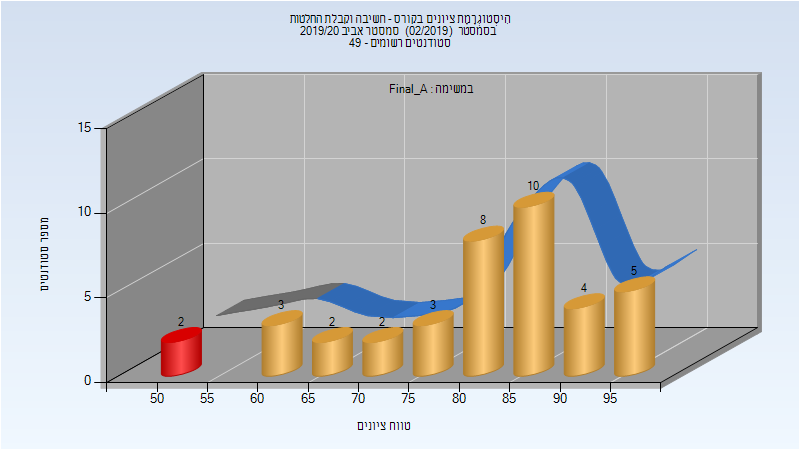
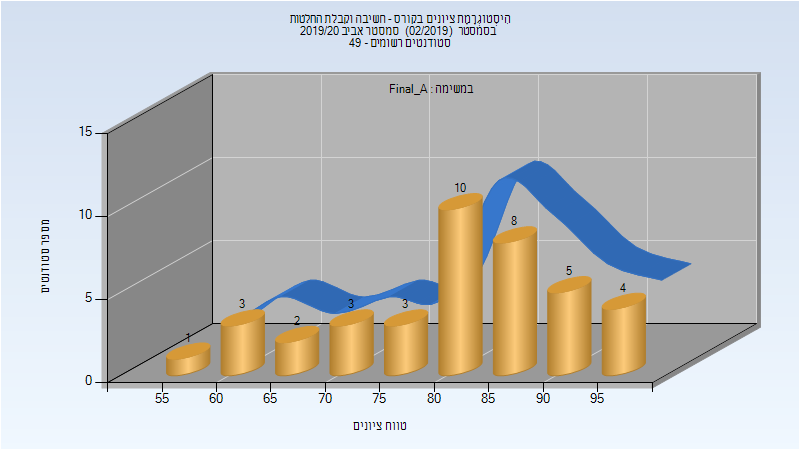
Deploy michael-maltsev/technion-histograms to github.com/michael-maltsev/technion-histograms.git:gh-pages

diff --git a/096124/index.html b/096124/index.html
@@ -5,7 +5,7 @@
     <link rel="shortcut icon" href="https://michael-maltsev.github.io/technion-histograms/favicon.ico">
     <meta name="viewport" content="width=device-width, initial-scale=1">
     <meta name="google-site-verification" content="Nps3LEfDaHCQolJfA4KJfgEA1c4hv6R04bCUijxBwdY" />
-    <title>096817 - ניהול וייזום חדשנות בארגונים | technion-histograms</title>
+    <title>096124 - תיכון לייצוריות ולהרכבה | technion-histograms</title>
     <style>
       /* stolen from thebestmotherfucking.website */
       body{font-family:Open Sans,Arial;color:#454545;font-size:16px;margin:2em auto;max-width:800px;padding:1em;line-height:1.4;text-align:justify}html.contrast body{color:#050505}html.contrast blockquote{color:#11151a}html.contrast blockquote:before{color:#262626}html.contrast a{color:#0051c9}html.contrast a:visited{color:#7d013e}html.contrast span.wr{color:#800}html.contrast span.mfw{color:#4d0000}@media screen and (prefers-color-scheme:light){html.inverted{background-color:#000}html.inverted body{color:#d9d9d9}html.inverted div#contrast,html.inverted div#invmode{color:#fff;background-color:#000}html.inverted blockquote{color:#d3c9be}html.inverted blockquote:before{color:#b8b8b8}html.inverted a{color:#00a2e7}html.inverted a:visited{color:#ca1a70}html.inverted span.wr{color:#d24637}html.inverted span.mfw{color:#b00000}html.inverted.contrast{background-color:#000}html.inverted.contrast body{color:#fff}html.inverted.contrast div#contrast,html.inverted.contrast div#invmode{color:#fff;background-color:#000}html.inverted.contrast blockquote{color:#f8f6f5}html.inverted.contrast blockquote:before{color:#e5e5e5}html.inverted.contrast a{color:#44c7ff}html.inverted.contrast a:visited{color:#e9579e}html.inverted.contrast span.wr{color:#db695d}html.inverted.contrast span.mfw{color:#ff0d0d}}@media (prefers-color-scheme:dark){html:not(.inverted){background-color:#000}html:not(.inverted) body{color:#d9d9d9}html:not(.inverted) div#contrast,html:not(.inverted) div#invmode{color:#fff;background-color:#000}html:not(.inverted) blockquote{color:#d3c9be}html:not(.inverted) blockquote:before{color:#b8b8b8}html:not(.inverted) a{color:#00a2e7}html:not(.inverted) a:visited{color:#ca1a70}html:not(.inverted) span.wr{color:#d24637}html:not(.inverted) span.mfw{color:#b00000}html:not(.inverted).contrast{background-color:#000}html:not(.inverted).contrast body{color:#fff}html:not(.inverted).contrast div#contrast,html:not(.inverted).contrast div#invmode{color:#fff;background-color:#000}html:not(.inverted).contrast blockquote{color:#f8f6f5}html:not(.inverted).contrast blockquote:before{color:#e5e5e5}html:not(.inverted).contrast a{color:#44c7ff}html:not(.inverted).contrast a:visited{color:#e9579e}html:not(.inverted).contrast span.wr{color:#db695d}html:not(.inverted).contrast span.mfw{color:#ff0d0d}html.inverted html{background-color:#fefefe}}a{color:#07a}a:visited{color:#941352}.noselect{-webkit-touch-callout:none;-webkit-user-select:none;-khtml-user-select:none;-moz-user-select:none;-ms-user-select:none;user-select:none}span.citneed{vertical-align:top;font-size:.7em;padding-left:.3em}small{font-size:.4em}p.st{margin-top:-1em}div.fancyPositioning div.picture-left{float:left;width:40%;overflow:hidden;margin-right:1em}div.fancyPositioning div.picture-left img{width:100%}div.fancyPositioning div.picture-left figure{margin:10px}div.fancyPositioning div.picture-left figure figcaption{font-size:.7em}div.fancyPositioning div.tleft{float:left;width:55%}div.fancyPositioning div.tleft p:first-child{margin-top:0}div.fancyPositioning:after{display:block;content:"";clear:both}ul li img{height:1em}blockquote{color:#456;margin-left:0;margin-top:2em;margin-bottom:2em}blockquote span{float:left;margin-left:1rem;padding-top:1rem}blockquote author{display:block;clear:both;font-size:.6em;margin-left:2.4rem;font-style:oblique}blockquote author:before{content:"- ";margin-right:1em}blockquote:before{font-family:Times New Roman,Times,Arial;color:#666;content:open-quote;font-size:2.2em;font-weight:600;float:left;margin-top:0;margin-right:.2rem;width:1.2rem}blockquote:after{content:"";display:block;clear:both}@media screen and (max-width:500px){body{text-align:left}div.fancyPositioning div.picture-left,div.fancyPositioning div.tleft{float:none;width:inherit}blockquote span{width:80%}blockquote author{padding-top:1em;width:80%;margin-left:15%}blockquote author:before{content:"";margin-right:inherit}}span.visited{color:#941352}span.visited-maroon{color:#85144b}span.wr{color:#c0392b;font-weight:600;text-decoration:underline}div#contrast{color:#000;top:10px}div#contrast,div#invmode{cursor:pointer;position:fixed;right:10px;font-size:.8em;text-decoration:underline;-webkit-touch-callout:none;-webkit-user-select:none;-khtml-user-select:none;-moz-user-select:none;-ms-user-select:none;user-select:none}div#invmode{color:#fff;background-color:#000;top:34px;padding:2px 5px}@media screen and (max-width:1080px){div#contrast,div#invmode{position:absolute}}span.sb{color:#00e}span.sb,span.sv{cursor:not-allowed}span.sv{color:#551a8b}span.foufoufou{color:#444;font-weight:700}span.foufoufou:before{content:"";display:inline-block;width:1em;height:1em;margin-left:.2em;margin-right:.2em;background-color:#444}span.foufivfoufivfoufiv{color:#454545;font-weight:700}span.foufivfoufivfoufiv:before{content:"";display:inline-block;width:1em;height:1em;margin-left:.2em;margin-right:.2em;background-color:#454545}span.mfw{color:#730000}a.kopimi,a.kopimi img.kopimi{display:block;margin-left:auto;margin-right:auto}a.kopimi img.kopimi{height:2em}p.fakepre{font-family:monospace;font-size:.9em}
@@ -20,82 +20,7 @@
     </style>
   </head>
   <body>
-    <h1>096817 - ניהול וייזום חדשנות בארגונים</h1>
-<h2>אביב 2019</h2>
-<table>
-<thead>
-<tr>
-<th>איש סגל</th>
-<th>תפקיד</th>
-</tr>
-</thead>
-<tbody>
-<tr>
-<td>ארבל איריס</td>
-<td>מרצה - אחראי מקצוע</td>
-</tr>
-<tr>
-<td>אגסי זיוה</td>
-<td>סגל מנהלי - עם הרשאות מרצה אחראי</td>
-</tr>
-<tr>
-<td>זיו דוד מורן</td>
-<td>סגל מנהלי - עם הרשאות מרצה אחראי</td>
-</tr>
-</tbody>
-</table>
-<h3>סופי מועד א'</h3>
-<p><img src="201802/Final_A.png" alt="201802 Final_A" /></p>
-<table>
-<thead>
-<tr>
-<th>סטודנטים</th>
-<th>עברו/נכשלו</th>
-<th>אחוז עוברים</th>
-<th>ציון מינימלי</th>
-<th>ציון מקסימלי</th>
-<th>ממוצע</th>
-<th>חציון</th>
-</tr>
-</thead>
-<tbody>
-<tr>
-<td>33</td>
-<td>33/0</td>
-<td>100</td>
-<td>91</td>
-<td>96</td>
-<td>93.364</td>
-<td>93</td>
-</tr>
-</tbody>
-</table>
-<h3>סופי</h3>
-<p><img src="201802/Finals.png" alt="201802 Finals" /></p>
-<table>
-<thead>
-<tr>
-<th>סטודנטים</th>
-<th>עברו/נכשלו</th>
-<th>אחוז עוברים</th>
-<th>ציון מינימלי</th>
-<th>ציון מקסימלי</th>
-<th>ממוצע</th>
-<th>חציון</th>
-</tr>
-</thead>
-<tbody>
-<tr>
-<td>33</td>
-<td>33/0</td>
-<td>100</td>
-<td>91</td>
-<td>96</td>
-<td>93.364</td>
-<td>93</td>
-</tr>
-</tbody>
-</table>
+    <h1>096124 - תיכון לייצוריות ולהרכבה</h1>
 <h2>אביב 2020</h2>
 <table>
 <thead>
@@ -106,15 +31,19 @@
 </thead>
 <tbody>
 <tr>
-<td>ארבל איריס</td>
+<td>גרבוב פבל</td>
 <td>מרצה - אחראי מקצוע</td>
 </tr>
 <tr>
-<td>אגסי זיוה</td>
-<td>סגל מנהלי - עם הרשאות מרצה אחראי</td>
+<td>רייכשטיין ריקי</td>
+<td>מתרגל - עם הרשאות מרצה אחראי</td>
 </tr>
 <tr>
 <td>זיו דוד מורן</td>
+<td>סגל מנהלי - עם הרשאות מרצה אחראי</td>
+</tr>
+<tr>
+<td>אגסי זיוה</td>
 <td>סגל מנהלי - עם הרשאות מרצה אחראי</td>
 </tr>
 </tbody>
@@ -135,13 +64,13 @@
 </thead>
 <tbody>
 <tr>
-<td>21</td>
-<td>21/0</td>
+<td>19</td>
+<td>18/1</td>
+<td>95</td>
+<td>40</td>
 <td>100</td>
-<td>84</td>
-<td>94</td>
-<td>88.571</td>
-<td>91</td>
+<td>87.316</td>
+<td>92</td>
 </tr>
 </tbody>
 </table>
@@ -161,13 +90,13 @@
 </thead>
 <tbody>
 <tr>
-<td>21</td>
-<td>21/0</td>
+<td>19</td>
+<td>18/1</td>
+<td>95</td>
+<td>40</td>
 <td>100</td>
-<td>84</td>
-<td>94</td>
-<td>88.571</td>
-<td>91</td>
+<td>87.316</td>
+<td>92</td>
 </tr>
 </tbody>
 </table>

diff --git a/index.html b/index.html
@@ -584,6 +584,7 @@
 <a href="095140/">095140 - תכנון פרויקטים וניהולם</a><br />
 <a href="095295/">095295 - שיטות אלגבריות בהנדסת נתונים</a><br />
 <a href="095605/">095605 - מבוא לפסיכולוגיה</a><br />
+<a href="096124/">096124 - תיכון לייצוריות ולהרכבה</a><br />
 <a href="096202/">096202 - מבוא לניתוח נתונים</a><br />
 <a href="096210/">096210 - יסודות בינה מלאכותית וישומיה</a><br />
 <a href="096211/">096211 - מודלים למסחר אלקטרוני</a><br />

diff --git a/096617/index.html b/096617/index.html
@@ -279,12 +279,12 @@
 <tbody>
 <tr>
 <td>39</td>
-<td>37/2</td>
-<td>95</td>
-<td>52</td>
+<td>39/0</td>
+<td>100</td>
+<td>57</td>
 <td>97</td>
-<td>81.128</td>
-<td>82</td>
+<td>81.795</td>
+<td>83</td>
 </tr>
 </tbody>
 </table>

diff --git a/096124/README.md b/096124/README.md
@@ -1,0 +1,27 @@
+# 096124 - תיכון לייצוריות ולהרכבה
+
+## אביב 2020
+
+| איש סגל | תפקיד |
+| ---- | ---- |
+| גרבוב פבל | מרצה - אחראי מקצוע |
+| רייכשטיין ריקי | מתרגל - עם הרשאות מרצה אחראי |
+| זיו דוד מורן | סגל מנהלי - עם הרשאות מרצה אחראי |
+| אגסי זיוה | סגל מנהלי - עם הרשאות מרצה אחראי |
+
+### סופי מועד א'
+
+![201902 Final_A](201902/Final_A.png)
+
+| סטודנטים | עברו/נכשלו | אחוז עוברים | ציון מינימלי | ציון מקסימלי | ממוצע | חציון |
+| ---- | ---- | ---- | ---- | ---- | ---- | ---- |
+| 19 | 18/1 | 95 | 40 | 100 | 87.316 | 92 |
+
+### סופי
+
+![201902 Finals](201902/Finals.png)
+
+| סטודנטים | עברו/נכשלו | אחוז עוברים | ציון מינימלי | ציון מקסימלי | ממוצע | חציון |
+| ---- | ---- | ---- | ---- | ---- | ---- | ---- |
+| 19 | 18/1 | 95 | 40 | 100 | 87.316 | 92 |
+

diff --git a/096817/README.md b/096817/README.md
@@ -24,3 +24,27 @@
 | ---- | ---- | ---- | ---- | ---- | ---- | ---- |
 | 33 | 33/0 | 100 | 91 | 96 | 93.364 | 93 |
 
+## אביב 2020
+
+| איש סגל | תפקיד |
+| ---- | ---- |
+| ארבל איריס | מרצה - אחראי מקצוע |
+| אגסי זיוה | סגל מנהלי - עם הרשאות מרצה אחראי |
+| זיו דוד מורן | סגל מנהלי - עם הרשאות מרצה אחראי |
+
+### סופי מועד א'
+
+![201902 Final_A](201902/Final_A.png)
+
+| סטודנטים | עברו/נכשלו | אחוז עוברים | ציון מינימלי | ציון מקסימלי | ממוצע | חציון |
+| ---- | ---- | ---- | ---- | ---- | ---- | ---- |
+| 21 | 21/0 | 100 | 84 | 94 | 88.571 | 91 |
+
+### סופי
+
+![201902 Finals](201902/Finals.png)
+
+| סטודנטים | עברו/נכשלו | אחוז עוברים | ציון מינימלי | ציון מקסימלי | ממוצע | חציון |
+| ---- | ---- | ---- | ---- | ---- | ---- | ---- |
+| 21 | 21/0 | 100 | 84 | 94 | 88.571 | 91 |
+

diff --git a/README.md b/README.md
@@ -563,6 +563,7 @@
 [095140 - תכנון פרויקטים וניהולם](095140/)  
 [095295 - שיטות אלגבריות בהנדסת נתונים](095295/)  
 [095605 - מבוא לפסיכולוגיה](095605/)  
+[096124 - תיכון לייצוריות ולהרכבה](096124/)  
 [096202 - מבוא לניתוח נתונים](096202/)  
 [096210 - יסודות בינה מלאכותית וישומיה](096210/)  
 [096211 - מודלים למסחר אלקטרוני](096211/)  

diff --git a/096617/README.md b/096617/README.md
@@ -83,5 +83,5 @@
 
 | סטודנטים | עברו/נכשלו | אחוז עוברים | ציון מינימלי | ציון מקסימלי | ממוצע | חציון |
 | ---- | ---- | ---- | ---- | ---- | ---- | ---- |
-| 39 | 37/2 | 95 | 52 | 97 | 81.128 | 82 |
+| 39 | 39/0 | 100 | 57 | 97 | 81.795 | 83 |
 
